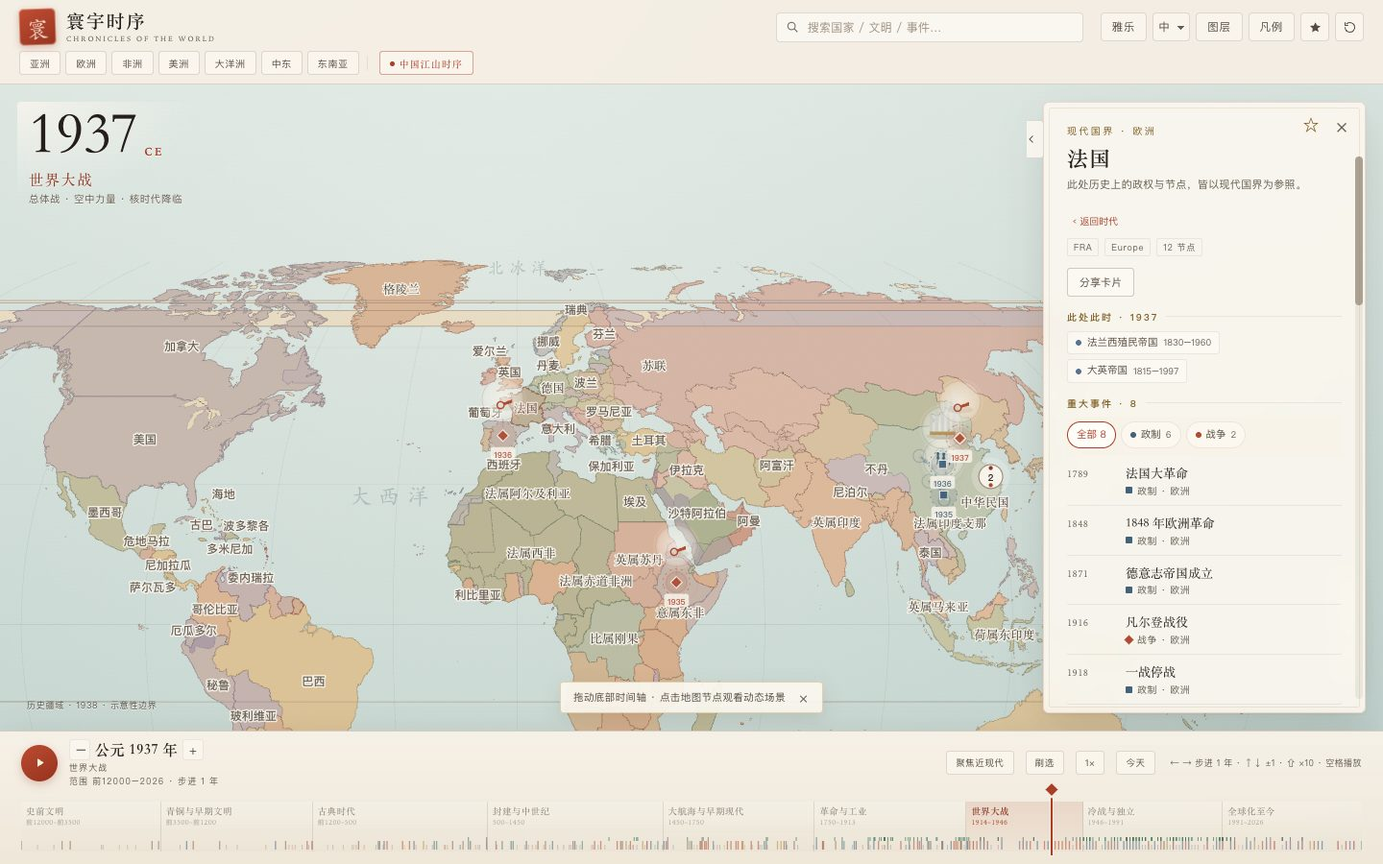
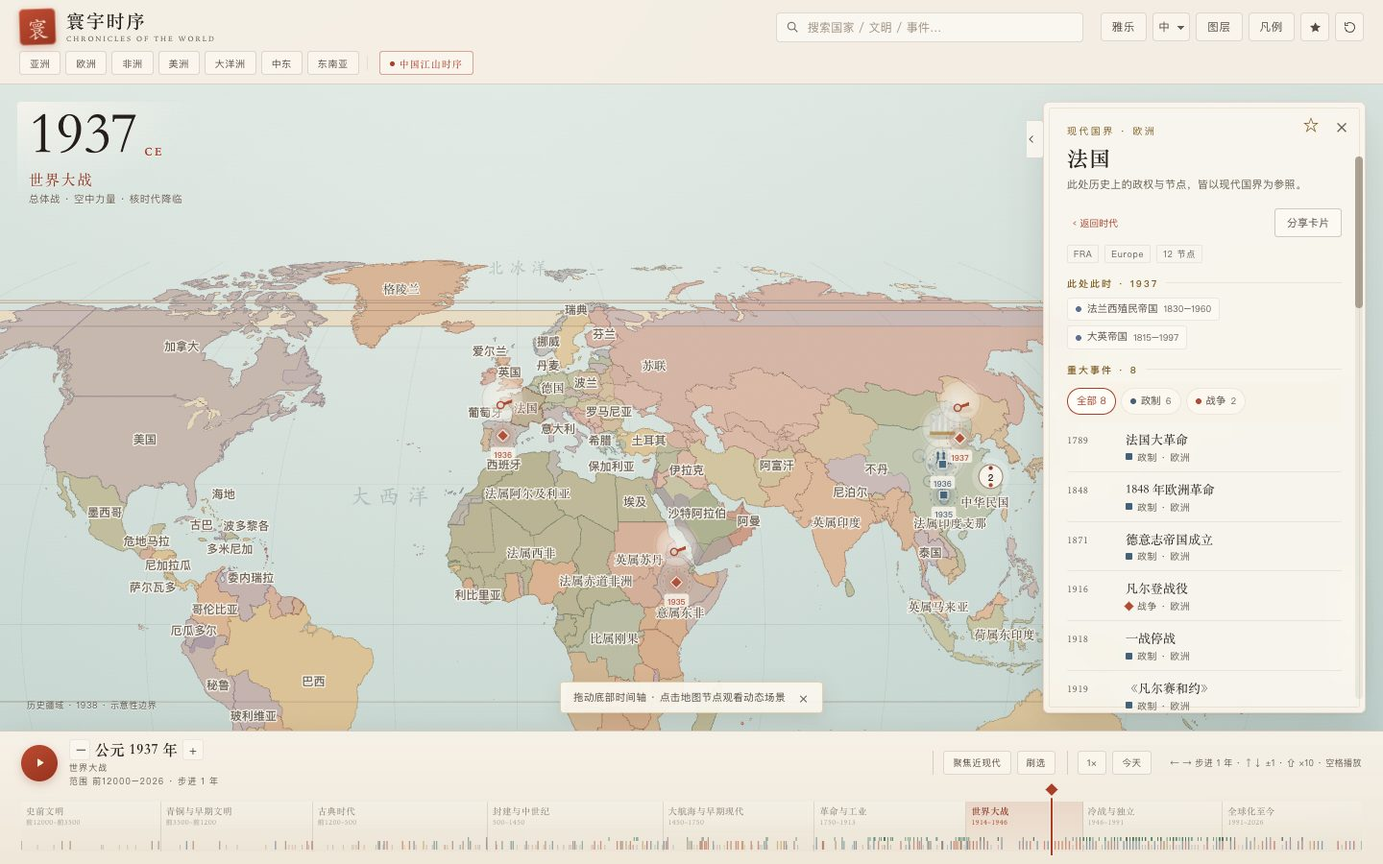
fix(ux): the P2 findings from the P3 review
U13 - clearing favourites asks first
  The clear button now arms a confirmation row ("Clear all N favourites?
  This cannot be undone." with Clear / Cancel); cancelling returns to the
  list, and the armed state resets when the panel opens or closes.

U14 - share cards say where they went
  showToast() can carry one action button. The download path now reports
  "Saved world-chronicle-….png" with an Open action; the blob URL lives for
  60s so the button works. The Web Share path is unchanged.

U15 - offline degradation is stated
  A panel-top notice explains that summaries and cached content work while
  long-form records, unvisited events and scenes need a connection; it
  appears and disappears with the online/offline events.

D10 - event modal balance
  The "elsewhere at the same moment" block follows the body copy instead of
  being pushed to the bottom; the action row keeps margin-top:auto. The empty
  band moves from the middle of the card to above the actions.

D11 - country and route tools
  Back and Share now share one top bar (.panel-topbar).

D12 - mixed-script labels are explained in place
  The layers popover gains a one-line note, shown only in ES/FR/AR, that
  historical names without a translation keep their original script (the
  long explanation remains in the guide).

Smoke 56 -> 57: confirm-then-cancel clearing, country/route top bar, and
the offline panel note.

diff --git a/js/app.js b/js/app.js
@@ -493,7 +493,7 @@
       "tl-year-btn", "tl-step-back", "tl-step-fwd", "tl-jump", "tl-year-input", "tl-jump-go", "tl-jump-cancel",
       "tl-zoom-btn", "tl-brush", "tl-cursor", "tl-tip", "tl-scope", "tl-brush-btn",
       "minimap", "minimap-canvas", "minimap-fit",
-      "offline-bar", "pwa-bar", "pwa-action", "pwa-dismiss",
+      "offline-bar", "pwa-bar", "pwa-action", "pwa-dismiss", "panel-offline", "layers-lang-note",
       "event-modal", "scene-canvas", "scene-label", "scene-era", "scene-caption", "scene-toggle",
       "theatre-card", "tc-kicker", "tc-title", "tc-expand", "tc-pause", "tc-close", "sheet-handle",
       "sound-btn", "ev-voice", "fav-btn", "fav-count", "fav-toggle",
@@ -724,6 +724,13 @@
       if (state.lang === "ar") el["tl-tip"].setAttribute("dir", "ltr");
       else el["tl-tip"].removeAttribute("dir");
     }
+    if (el["layers-lang-note"]) {
+      el["layers-lang-note"].hidden = state.lang === "zh" || state.lang === "en";
+      el["layers-lang-note"].textContent = L("", "Historical names without a translation stay in their original script.",
+        "Los nombres históricos sin traducción se muestran en su escritura original.",
+        "Les noms historiques sans traduction restent dans leur écriture d’origine.",
+        "الأسماء التاريخية التي لا ترجمة لها تبقى بخطها الأصلي.");
+    }
     if (el["lang-select"]) el["lang-select"].value = state.lang;
     updateSoundBtn();
     if (window.AtlasAudio) window.AtlasAudio.setLang(state.lang);
@@ -801,6 +808,16 @@
     if (!el["offline-bar"]) return;
     const off = navigator.onLine === false;
     el["offline-bar"].hidden = !off;
+    if (el["panel-offline"]) {
+      el["panel-offline"].hidden = !off;
+      el["panel-offline"].textContent = L(
+        "离线：摘要与已缓存内容可用；长文、未访问事件与剧场需要联网",
+        "Offline: summaries and cached content work; long-form records, unvisited events and scenes need a connection",
+        "Sin conexión: resúmenes y contenido guardado; las fichas largas, los eventos no visitados y las escenas necesitan conexión",
+        "Hors ligne : résumés et contenu en cache ; les fiches longues, les événements non visités et les scènes demandent une connexion",
+        "دون اتصال: الملخصات والمحتوى المخزَّن متاح؛ السجلات الطويلة والأحداث غير المزارة والمشاهد تحتاج اتصالًا"
+      );
+    }
     const t = el["offline-bar"].querySelector(".sysbar-text");
     if (t) t.textContent = L("离线 · 正在显示已缓存的内容；未访问过的事件详情需要联网", "Offline — showing cached content; unvisited records need a connection", "Sin conexión: se muestra lo guardado; las fichas no visitadas necesitan conexión", "Hors ligne : contenu en cache ; les fiches non visitées demandent une connexion", "دون اتصال — يُعرض المخزَّن؛ السجلات غير المزارة تحتاج اتصالًا");
   }
@@ -861,6 +878,7 @@
   /* ── favourites / bookmarks ─────────────────────── */
   const FAV_KEY = "world-atlas-favorites";
   let favorites = [];
+  let favClearArmed = false;
   function loadFavorites() {
     try {
       const a = JSON.parse(localStorage.getItem(FAV_KEY) || "[]");
@@ -998,6 +1016,7 @@
     }
   }
   function openFavorites(push) {
+    favClearArmed = false;
     state.favoritesOpen = true;
     state.eventView = null;
     state.eventGroup = null;
@@ -1157,7 +1176,11 @@
         html += `<div class="fav-row"><button class="fav-open" type="button" data-fav-open="${i}"><span class="fav-kind">${favTypeLabel(x.type)}</span><span class="fav-text"><b>${favTitle(x)}</b><small>${favMeta(x)}</small></span></button><button class="fav-remove" type="button" data-fav-remove="${i}" aria-label="${L("移除收藏", "Remove favourite", "Quitar favorito", "Retirer des favoris", "إزالة من المفضلة")}" title="${L("移除", "Remove", "Quitar", "Retirer", "إزالة")}">×</button></div>`;
       });
       html += `</div>`;
-      html += `<button class="fav-clear" type="button" data-fav-clear="1">${L("清空收藏", "Clear favourites", "Vaciar favoritos", "Vider les favoris", "مسح المفضلة")}</button>`;
+      if (favClearArmed) {
+        html += `<div class="fav-confirm" role="group" aria-label="${L("确认清空收藏", "Confirm clearing favourites", "Confirmar vaciado", "Confirmer la suppression", "تأكيد مسح المفضلة")}"><span>${L("确定清空全部 " + favorites.length + " 条收藏？此操作不可撤销。", "Clear all " + favorites.length + " favourites? This cannot be undone.", "¿Vaciar los " + favorites.length + " favoritos? No se puede deshacer.", "Vider les " + favorites.length + " favoris ? Action irréversible.", "مسح كل " + favorites.length + " من المفضلة؟ لا يمكن التراجع.")}</span><button type="button" class="fav-tool is-danger" data-fav-clear-yes="1">${L("清空", "Clear", "Vaciar", "Vider", "مسح")}</button><button type="button" class="fav-tool" data-fav-clear-no="1">${L("取消", "Cancel", "Cancelar", "Annuler", "إلغاء")}</button></div>`;
+      } else {
+        html += `<button class="fav-clear" type="button" data-fav-clear="1">${L("清空收藏", "Clear favourites", "Vaciar favoritos", "Vider les favoris", "مسح المفضلة")}</button>`;
+      }
     }
     html += `<div class="fav-tools">${favorites.length ? `<button type="button" class="fav-tool" data-fav-export="1">${L("导出备份", "Export", "Exportar", "Exporter", "تصدير")}</button>` : ""}<button type="button" class="fav-tool" data-fav-import="1">${L("导入备份", "Import", "Importar", "Importer", "استيراد")}</button></div>`;
     html += `<div class="panel-note">${L("收藏保存在 localStorage；换浏览器或清除站点数据后会丢失，可导出 JSON 备份。", "Favourites live in localStorage; clearing site data or switching browsers removes them — export a JSON backup to keep them.", "Los favoritos viven en localStorage; borrar los datos del sitio los elimina: exporta una copia JSON para conservarlos.", "Les favoris vivent dans localStorage ; effacer les données du site les supprime — exportez une sauvegarde JSON.", "تُحفظ المفضلة في localStorage؛ ومسح بيانات الموقع يزيلها — صدّر نسخة JSON للاحتفاظ بها.")}</div>`;
@@ -1404,8 +1427,7 @@
     el["panel-kicker"].textContent = L("主题路线 · ", "THEMED ROUTE · ", "RUTA TEMÁTICA · ", "PARCOURS · ", "مسار · ") + evs.length;
     el["panel-title"].textContent = routeText(r.name);
     el["panel-sub"].textContent = routeText(r.desc);
-    let html = `<button class="panel-back" data-route-close="1">‹ ${L("返回时代", "Back to the age", "Volver a la era", "Retour à l’âge", "العودة إلى العصر")}</button>`;
-    html += `<div class="panel-tools"><button type="button" class="panel-tool" data-route-share="1">${L("分享卡片", "Share card", "Tarjeta para compartir", "Carte à partager", "بطاقة للمشاركة")}</button></div>`;
+    let html = `<div class="panel-topbar"><button class="panel-back" data-route-close="1">‹ ${L("返回时代", "Back to the age", "Volver a la era", "Retour à l’âge", "العودة إلى العصر")}</button><button type="button" class="panel-tool" data-route-share="1">${L("分享卡片", "Share card", "Tarjeta para compartir", "Carte à partager", "بطاقة للمشاركة")}</button></div>`;
     html += `<div class="event-list">${eventList(evs, { now: false })}</div>`;
     html += `<div class="panel-note">${L("按时间顺序排列；点击节点可继续查看地图剧场与详情。", "In chronological order; click a node for its map theatre and dossier.", "En orden cronológico; haz clic para el teatro y la ficha.", "Par ordre chronologique ; cliquez pour le théâtre et la fiche.", "بترتيب زمني؛ انقر لمشهد الخريطة والملف.")}</div>`;
     el["panel-body"].innerHTML = html;
@@ -1611,9 +1633,8 @@
     const here = politiesAt(p.ly, p.lx);
     const scroll = el["panel-body"].scrollTop;
 
-    let html = `<button class="panel-back" data-back="1">‹ ${L("返回时代", "Back to the age", "Volver a la era", "Retour à l’âge", "العودة إلى العصر")}</button>`;
+    let html = `<div class="panel-topbar"><button class="panel-back" data-back="1">‹ ${L("返回时代", "Back to the age", "Volver a la era", "Retour à l’âge", "العودة إلى العصر")}</button><button type="button" class="panel-tool" data-country-share="1">${L("分享卡片", "Share card", "Tarjeta para compartir", "Carte à partager", "بطاقة للمشاركة")}</button></div>`;
     html += `<div class="country-flags"><span class="country-tag">${countryKey(f)}</span><span class="country-tag">${p.cont || ""}</span><span class="country-tag">${evs.length} ${L("节点", "nodes", "nodos", "nœuds", "عقدة")}</span></div>`;
-    html += `<div class="panel-tools"><button type="button" class="panel-tool" data-country-share="1">${L("分享卡片", "Share card", "Tarjeta para compartir", "Carte à partager", "بطاقة للمشاركة")}</button></div>`;
 
     html += `<section class="p-section"><h3>${L("此处此时", "HERE, NOW", "AQUÍ, AHORA", "ICI, MAINTENANT", "هنا الآن")} · ${fmtYear(state.year, state.lang, true)}</h3><div class="polity-list">`;
     if (here.length) {
@@ -3343,7 +3364,11 @@
       const favRemove = e.target.closest("[data-fav-remove]");
       if (favRemove) { favorites.splice(Number(favRemove.getAttribute("data-fav-remove")), 1); saveFavorites(); lastPanelKey = ""; renderPanel(true); return; }
       const favClear = e.target.closest("[data-fav-clear]");
-      if (favClear) { favorites = []; saveFavorites(); lastPanelKey = ""; renderPanel(true); return; }
+      if (favClear) { favClearArmed = true; lastPanelKey = ""; renderPanel(true); return; }
+      const favClearYes = e.target.closest("[data-fav-clear-yes]");
+      if (favClearYes) { favClearArmed = false; favorites = []; saveFavorites(); lastPanelKey = ""; renderPanel(true); return; }
+      const favClearNo = e.target.closest("[data-fav-clear-no]");
+      if (favClearNo) { favClearArmed = false; lastPanelKey = ""; renderPanel(true); return; }
       const favExport = e.target.closest("[data-fav-export]");
       if (favExport) { exportFavorites(); return; }
       const favImport = e.target.closest("[data-fav-import]");
@@ -3707,12 +3732,28 @@
     else urlTimer = setTimeout(write, 420);
   }
 
-  function showToast(text) {
-    if (!el["toast"]) return;
+  function showToast(text, action) {
+    const t = el["toast"];
+    if (!t) return;
     clearTimeout(toastTimer);
-    el["toast"].textContent = text;
-    el["toast"].hidden = false;
-    toastTimer = setTimeout(() => { el["toast"].hidden = true; }, 2400);
+    t.textContent = "";
+    const span = document.createElement("span");
+    span.textContent = text;
+    t.appendChild(span);
+    if (action && action.label && action.fn) {
+      const b = document.createElement("button");
+      b.type = "button";
+      b.className = "toast-action";
+      b.textContent = action.label;
+      b.addEventListener("click", () => {
+        clearTimeout(toastTimer);
+        t.hidden = true;
+        try { action.fn(); } catch (err) { /* noop */ }
+      });
+      t.appendChild(b);
+    }
+    t.hidden = false;
+    toastTimer = setTimeout(() => { t.hidden = true; }, action ? 9000 : 2400);
   }
 
   function copyText(text) {
@@ -3903,12 +3944,17 @@
         await navigator.share({ files: [file], title });
         return;
       }
+      const url = URL.createObjectURL(blob);
       const a = document.createElement("a");
-      a.href = URL.createObjectURL(blob);
+      a.href = url;
       a.download = file.name;
       document.body.appendChild(a); a.click(); a.remove();
-      setTimeout(() => URL.revokeObjectURL(a.href), 4000);
-      showToast(L("分享卡片已生成", "Share card downloaded", "Tarjeta descargada", "Carte téléchargée", "تم تنزيل البطاقة"));
+      // Keep the blob alive long enough for the toast action to open it.
+      setTimeout(() => URL.revokeObjectURL(url), 60000);
+      showToast(
+        L("已保存 " + file.name, "Saved " + file.name, "Guardado: " + file.name, "Enregistré : " + file.name, "تم الحفظ: " + file.name),
+        { label: L("打开", "Open", "Abrir", "Ouvrir", "فتح"), fn: () => window.open(url, "_blank") }
+      );
     } catch (err) {
       console.warn("Share card failed:", err.message);
       showToast(L("分享卡片生成失败", "Could not create the card", "No se pudo crear la tarjeta", "Impossible de créer la carte", "تعذّر إنشاء البطاقة"));

diff --git a/css/style.css b/css/style.css
@@ -2522,3 +2522,61 @@ body.sheet-half #map-empty, body.sheet-full #map-empty { display: none; }
 @media (max-width: 620px) {
   .tl-group-view, .tl-group-play { padding-inline-start: 0; border-inline-start: 0; }
 }
+
+/* ═══════════ 面板离线提示 / offline note ═══════════ */
+.panel-offline {
+  margin: 0 0 2px;
+  padding: 6px 12px;
+  font-size: 10.5px;
+  line-height: 1.5;
+  color: #5a4423;
+  background: rgba(226, 196, 128, 0.28);
+  border-bottom: 1px solid rgba(160, 124, 64, 0.35);
+}
+.panel-offline[hidden] { display: none !important; }
+
+/* ═══════════ 收藏清空确认 / clear favourites confirm ═══════════ */
+.fav-confirm {
+  display: flex;
+  align-items: center;
+  flex-wrap: wrap;
+  gap: 8px;
+  margin-top: 12px;
+  padding: 8px 10px;
+  border: 1px solid rgba(176, 67, 44, 0.4);
+  border-radius: 3px;
+  background: rgba(176, 67, 44, 0.06);
+  font-size: 11px;
+  color: var(--verm);
+}
+.fav-confirm span { flex: 1 1 100%; }
+.fav-tool.is-danger { border-color: rgba(176, 67, 44, 0.55); color: var(--verm); background: rgba(176, 67, 44, 0.1); }
+
+/* ═══════════ toast 动作 / toast action ═══════════ */
+#toast { display: flex; align-items: center; gap: 10px; }
+#toast .toast-action {
+  flex: none;
+  padding: 3px 9px;
+  border: 1px solid rgba(242, 232, 214, 0.55);
+  border-radius: 3px;
+  background: transparent;
+  color: inherit;
+  font: inherit;
+  font-weight: 600;
+  cursor: pointer;
+}
+#toast .toast-action:hover { background: rgba(242, 232, 214, 0.16); }
+#toast .toast-action:focus-visible { outline: 2px solid #f2e8d6; outline-offset: 1px; }
+
+/* ═══════════ 面板顶部工具条 / panel top bar ═══════════ */
+.panel-topbar { display: flex; align-items: center; justify-content: space-between; gap: 10px; margin-bottom: 8px; }
+.panel-topbar .panel-back { margin: 0; }
+.panel-topbar .panel-tool { flex: none; }
+
+/* 事件弹窗：让"同一时刻"跟随正文，操作条贴底 */
+.event-info .ev-contemp { margin-top: 22px; }
+.event-info .ev-nav { margin-top: auto; }
+@media (max-width: 860px) {
+  .event-info .ev-contemp { margin-top: 14px; }
+  .event-info .ev-nav { margin-top: 14px; }
+}

diff --git a/index.html b/index.html
@@ -67,6 +67,7 @@
       <label class="lp-row"><input type="checkbox" data-toggle="stateChanges" checked /><span data-i18n="tgStates">国家兴亡</span></label>
       <label class="lp-row"><input type="checkbox" data-toggle="allEvents" /><span data-i18n="tgAll">显示全部历史</span></label>
       <div class="lp-note" data-i18n="layersNote">势力范围为示意性近似，非精确国界。</div>
+      <div class="lp-note" id="layers-lang-note"></div>
     </div>
   </header>
 
@@ -116,6 +117,7 @@
       </button>
       <div class="panel-inner">
         <button id="panel-close" class="panel-close" aria-label="关闭面板 / Close panel">×</button>
+        <div id="panel-offline" class="panel-offline" role="status" aria-live="polite" hidden></div>
         <button id="fav-toggle" class="fav-toggle" type="button" aria-label="收藏当前" title="收藏当前" aria-pressed="false" hidden>★</button>
         <button id="sheet-expand" class="sheet-expand" type="button">展开 ›</button>
         <div class="panel-head">

diff --git a/docs/ux-review-p3-2026-11.md b/docs/ux-review-p3-2026-11.md
@@ -23,22 +23,24 @@ Date 2026-11-07。**这是第二轮复盘**，不复述 P2 的结论；P2 的 D1
 - 具体错误：淞沪（1937）、台儿庄（1938）、武汉（1938）、百团（1940）使用中世纪城墙——已在收口时修复：新增 `urban-war` 家族，4 个事件迁入（见 `p3-2-scenes.md` §7）。全量差异由 0.107 升到 0.121，新家族内部 0.120。
 - **仍未解决**：modern 政治家族内部差异只有 0.060（20 个变体）；这是"同构"而非"套错"，需要新构图，留待 P4 Gate 3。
 
-### D10 · 事件弹窗右栏中段留白过大 · P2
+### D10 · 事件弹窗右栏中段留白过大 · P2 · **已修复**
 
-- 证据：`desktop-theatre.jpg`。右栏在"联动 2 地"标签与"同一时刻的世界"之间约 150px 空白，上下内容密度不均。
-- 原因：弹窗右栏只放短信息，长文留在侧栏；但短信息用不满高度。
-- 建议：把"国家沿革"入口、"为何重要"或一条关键引文放进该空档；或让"同一时刻的世界"上移并与元信息同组。
+- 证据：`desktop-theatre.jpg`（修复前）。右栏在"联动 2 地"标签与"同一时刻的世界"之间约 150px 空白。
+- 修复：`.ev-contemp` 不再用 `margin-top:auto` 顶到底部，改为紧跟正文（22px）；`.ev-nav` 用 `margin-top:auto` 贴底。空白从"内容中间"移到"内容与操作条之间"，读起来是呼吸而不是断裂；390×844 下间距收到 14px。
+- 验证：`desktop-theatre.jpg`（修复后）。
 
-### D11 · 国家面板的"分享卡片"按钮孤立 · P2
+### D11 · 国家面板的"分享卡片"按钮孤立 · P2 · **已修复**
 
-- 证据：`desktop-country.jpg`。按钮单独一行，位于国家标签行与"此处此时"之间，既不属于导航也不属于操作组。
-- 建议：与"收藏/返回/更多"组成一行工具条；或收进"⋯"菜单（与事件面板的"更多操作"一致）。
+- 证据：`desktop-country.jpg`（修复前）。按钮单独一行，位于国家标签行与"此处此时"之间。
+- 修复：新增 `.panel-topbar`，返回在左、分享在右，同一行；路线面板同样处理。
+- 验证：`desktop-share-toast.jpg`；smoke 新增「country and route tools sit in one top bar」。
 
-### D12 · 多语言下地图标签仍混排 · P2
+### D12 · 多语言下地图标签仍混排 · P2 · **已说明（UI 层）**
 
 - 证据：`desktop-rtl.jpg` 上 "U S S R"、"French West Africa" 与阿拉伯语标签同屏。
 - 说明：这些是历史快照原始英文名，没有可用阿语/西语译名（见 `p3-3-i18n.md` 的回退规则）。不是 bug，但视觉断层明显。
-- 建议：对**仍以拉丁字母显示**的标签降低不透明度或改用地名直译规则；至少在"凡例"里说明"专名保留原文"。
+- 处理：不降低这些标签的不透明度（会伤对比度），改为**在图层弹层里就地说明**——"没有译文的历史地名保留原文"，只在 ES/FR/AR 显示；凡例原有的长说明保留。
+- 验证：`desktop-layers-lang.jpg`。数据侧继续按 `p3-3-i18n.md` 的清单补译。
 
 ### D13 · 时间轴最底部的刻度与范围文字过小 · P3
 
@@ -75,22 +77,23 @@ Date 2026-11-07。**这是第二轮复盘**，不复述 P2 的结论；P2 的 D1
 - 证据：`js/i18n_extra.js` 缺 21 个键，其中 11 个属于首访引导；ES/FR/AR 用户第一次进入时看到的是英文三步说明。
 - 本轮已补全 21 个键 × 3 语言，并把"ahead/Open sea/NOW/born/nodes/Pause"等 10 处 zh-EN 专用片段接入五语 `L()`。
 
-### U13 · 清空收藏没有确认或撤销 · P2
+### U13 · 清空收藏没有确认或撤销 · P2 · **已修复**
 
 - 证据：`renderFavoritesPanel` 的"清空收藏"直接 `favorites = []`，只有 toast。
-- 影响：误触即失去全部收藏（虽然可以导出备份，但导出要先于清空）。
-- 建议：清空改为二次确认，或提供 5 秒 undo toast（本地操作，不需要后端）。
+- 修复：改为两步——第一次点"清空收藏"展开确认条"确定清空全部 N 条收藏？此操作不可撤销。[清空][取消]"；取消回到列表，确认才清空。打开收藏面板或离开时自动复位。
+- 验证：smoke「clearing favourites asks first and can be cancelled」（arm → cancel → confirm）；`desktop-favourites-confirm.jpg`。
 
-### U14 · 分享卡片的落点不明确 · P2
+### U14 · 分享卡片的落点不明确 · P2 · **已修复**
 
 - 证据：桌面 Chrome 上 `navigator.canShare({files})` 为 true，会走系统分享面板；不支持的浏览器直接下载文件，仅一句 toast。
-- 影响：用户不知道卡片去哪了（浏览器默认下载目录），也不知道能不能再找到。
-- 建议：toast 里给"打开"或"再下载一次"的动作；或在面板里保留"最近生成的卡片"缩略图。
+- 修复：下载路径的 toast 改为"已保存 world-chronicle-xxx.png [打开]"——toast 现在支持一个动作按钮（9 秒后消失）；blob URL 保留 60 秒供"打开"使用。系统分享面板的路径不变。
+- 验证：`desktop-share-toast.jpg`（屏蔽 `navigator.canShare` 后走下载路径）。
 
-### U15 · 离线打开未访问事件时"降级但不说明" · P2
+### U15 · 离线打开未访问事件时"降级但不说明" · P2 · **已修复**
 
-- 证据：断网后打开 `battle-of-mohacs`，面板正常显示标题、时间、地点、摘要与"简要条目"标记，但没有说明长文与剧场需要联网；点"展开史志"才知道不可用。
-- 建议：离线时在面板顶部加一行"离线：长文与场景不可用"，并在"展开史志"按钮上置灰说明。
+- 证据：断网后打开 `battle-of-mohacs`，面板正常显示标题、时间、地点、摘要与"简要条目"标记，但没有说明长文与剧场需要联网。
+- 修复：面板顶部新增离线说明条（`#panel-offline`，`role="status"`）："离线：摘要与已缓存内容可用；长文、未访问事件与剧场需要联网"，联网即隐藏；底部全局状态条保留。
+- 验证：smoke「offline status bar and panel note appear while offline」；`mobile-offline-panel.jpg`。
 
 ### U16 · 手机 2026 首屏没有事件列表入口 · P3
 
@@ -124,20 +127,20 @@ Date 2026-11-07。**这是第二轮复盘**，不复述 P2 的结论；P2 的 D1
 |---|---|---|---|
 | D8 | RTL 时间轴控件与提示 | P1 | 已修 |
 | D9 | Tier B 同构 + 家族套错 | P1 | 家族套错已修（urban-war）；同构留 P4 |
-| D10 | 弹窗右栏留白 | P2 | 未修 |
-| D11 | 国家面板分享按钮孤立 | P2 | 未修 |
-| D12 | 多语言标签混排 | P2 | 部分（数据侧已尽力） |
+| D10 | 弹窗右栏留白 | P2 | 已修 |
+| D11 | 国家面板分享按钮孤立 | P2 | 已修 |
+| D12 | 多语言标签混排 | P2 | 已说明（图层弹层 + 凡例） |
 | D13 | 时间轴刻度过小 | P3 | 未修 |
 | D14 | 收藏空状态分组 | P3 | 未修 |
 | D15 | 顶栏层级 | P3 | 未修 |
 | U10 | 脚本失败无提示 | P1 | 已修（面板提示 + 不弹引导） |
 | U11 | 深链改年份、URL 不同步 | P1 | 已修 |
 | U12 | 首访引导缺翻译 | P1 | 已修 |
-| U13 | 清空收藏无确认 | P2 | 未修 |
-| U14 | 分享卡片落点不明 | P2 | 未修 |
-| U15 | 离线降级无说明 | P2 | 未修 |
+| U13 | 清空收藏无确认 | P2 | 已修（两步确认） |
+| U14 | 分享卡片落点不明 | P2 | 已修（toast 带打开） |
+| U15 | 离线降级无说明 | P2 | 已修（面板离线条） |
 | U16 | 2026 首屏无列表入口 | P3 | 未修 |
 | U17 | 手机搜索无清除 | P3 | 未修 |
 | U18 | iOS 提示不解释后果 | P3 | 文档已说明 |
 
-P1 全部处理完毕：D8、U11 本轮修复，D9 的"家族套错"修复（同构留 P4），U10、U12 在前一轮已修。P2 与 P3 项见上表。
+P1 与 P2 已全部处理：D8/D10/D11/U10–U15 修复或说明，D9 的"家族套错"修复（同构留 P4）。剩下的是 P3 项（D13–D15、U16–U18），见上表。

diff --git a/docs/qa-and-limitations.md b/docs/qa-and-limitations.md
@@ -126,7 +126,7 @@ node scripts/build-reports.mjs
 | 检查 | 方法 | 结果 |
 |---|---|---|
 | 资源版本 | `?v=` token | `20261108x` |
-| 自动化套件 | `smoke` / `a11y` / `pwa` / `content-check` / `data-qa` / `entity-i18n` | 56 / 20 / 7 / 112 / 259 来源 / 97% |
+| 自动化套件 | `smoke` / `a11y` / `pwa` / `content-check` / `data-qa` / `entity-i18n` | 57 / 20 / 7 / 112 / 259 来源 / 97% |
 | 离线 | 断网后导航到未在线访问过的 URL | 由 Service Worker 提供首屏；二次访问 0.30 s、0 字节 |
 | 画布内存 | DPR 3 模拟 | 7.8 MB（修复前隐藏迷你地图会放大到 3,900 万×1,960 万像素） |
 | 200% 缩放 / 强制色彩 | 720×450 视口 / `forcedColors` | 无横向溢出；axe 0 违规 |

diff --git a/docs/p3-6-product.md b/docs/p3-6-product.md
@@ -89,4 +89,4 @@ Date 2026-11-07. 本轮落地：收藏/书签、3 条新主题路线、分享卡
 
 ### 9. 验证
 
-`npm run smoke` 56/56（新增 3 项）、`npm run pwa` 7/7、`npm run a11y` 20/20。
+`npm run smoke` 57/57（P2 收口后含确认清空、工具条与离线面板提示）、`npm run pwa` 7/7、`npm run a11y` 20/20。
